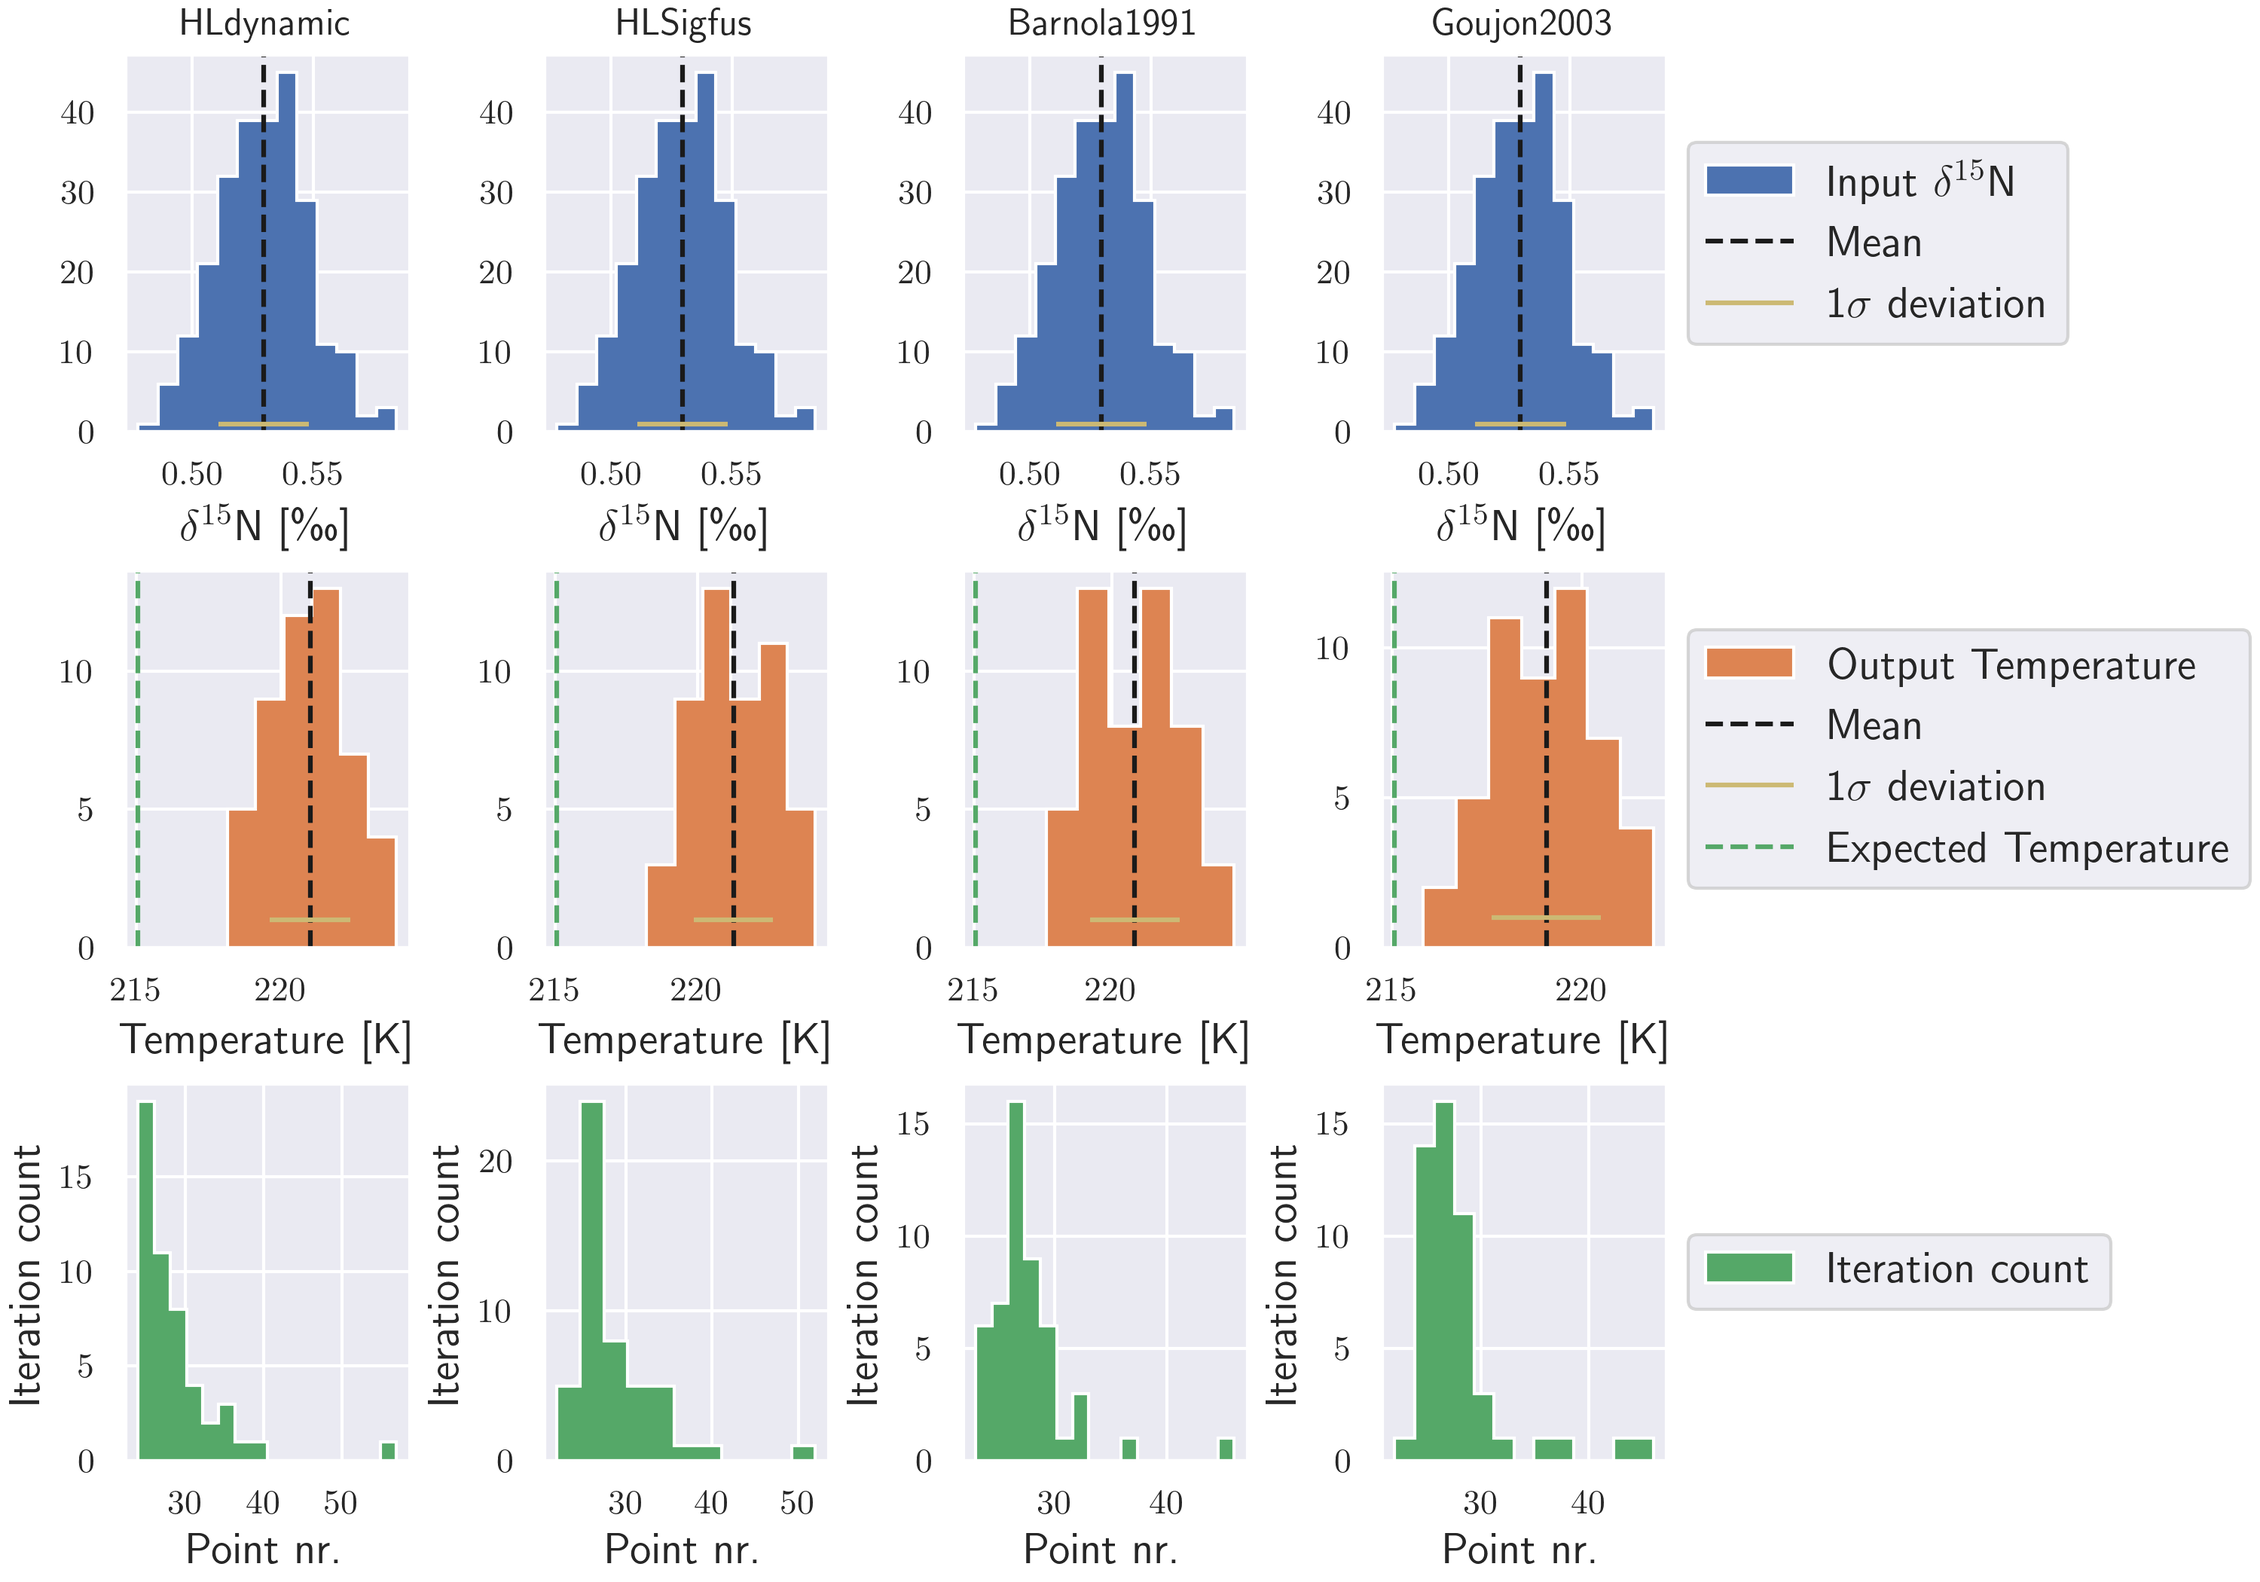
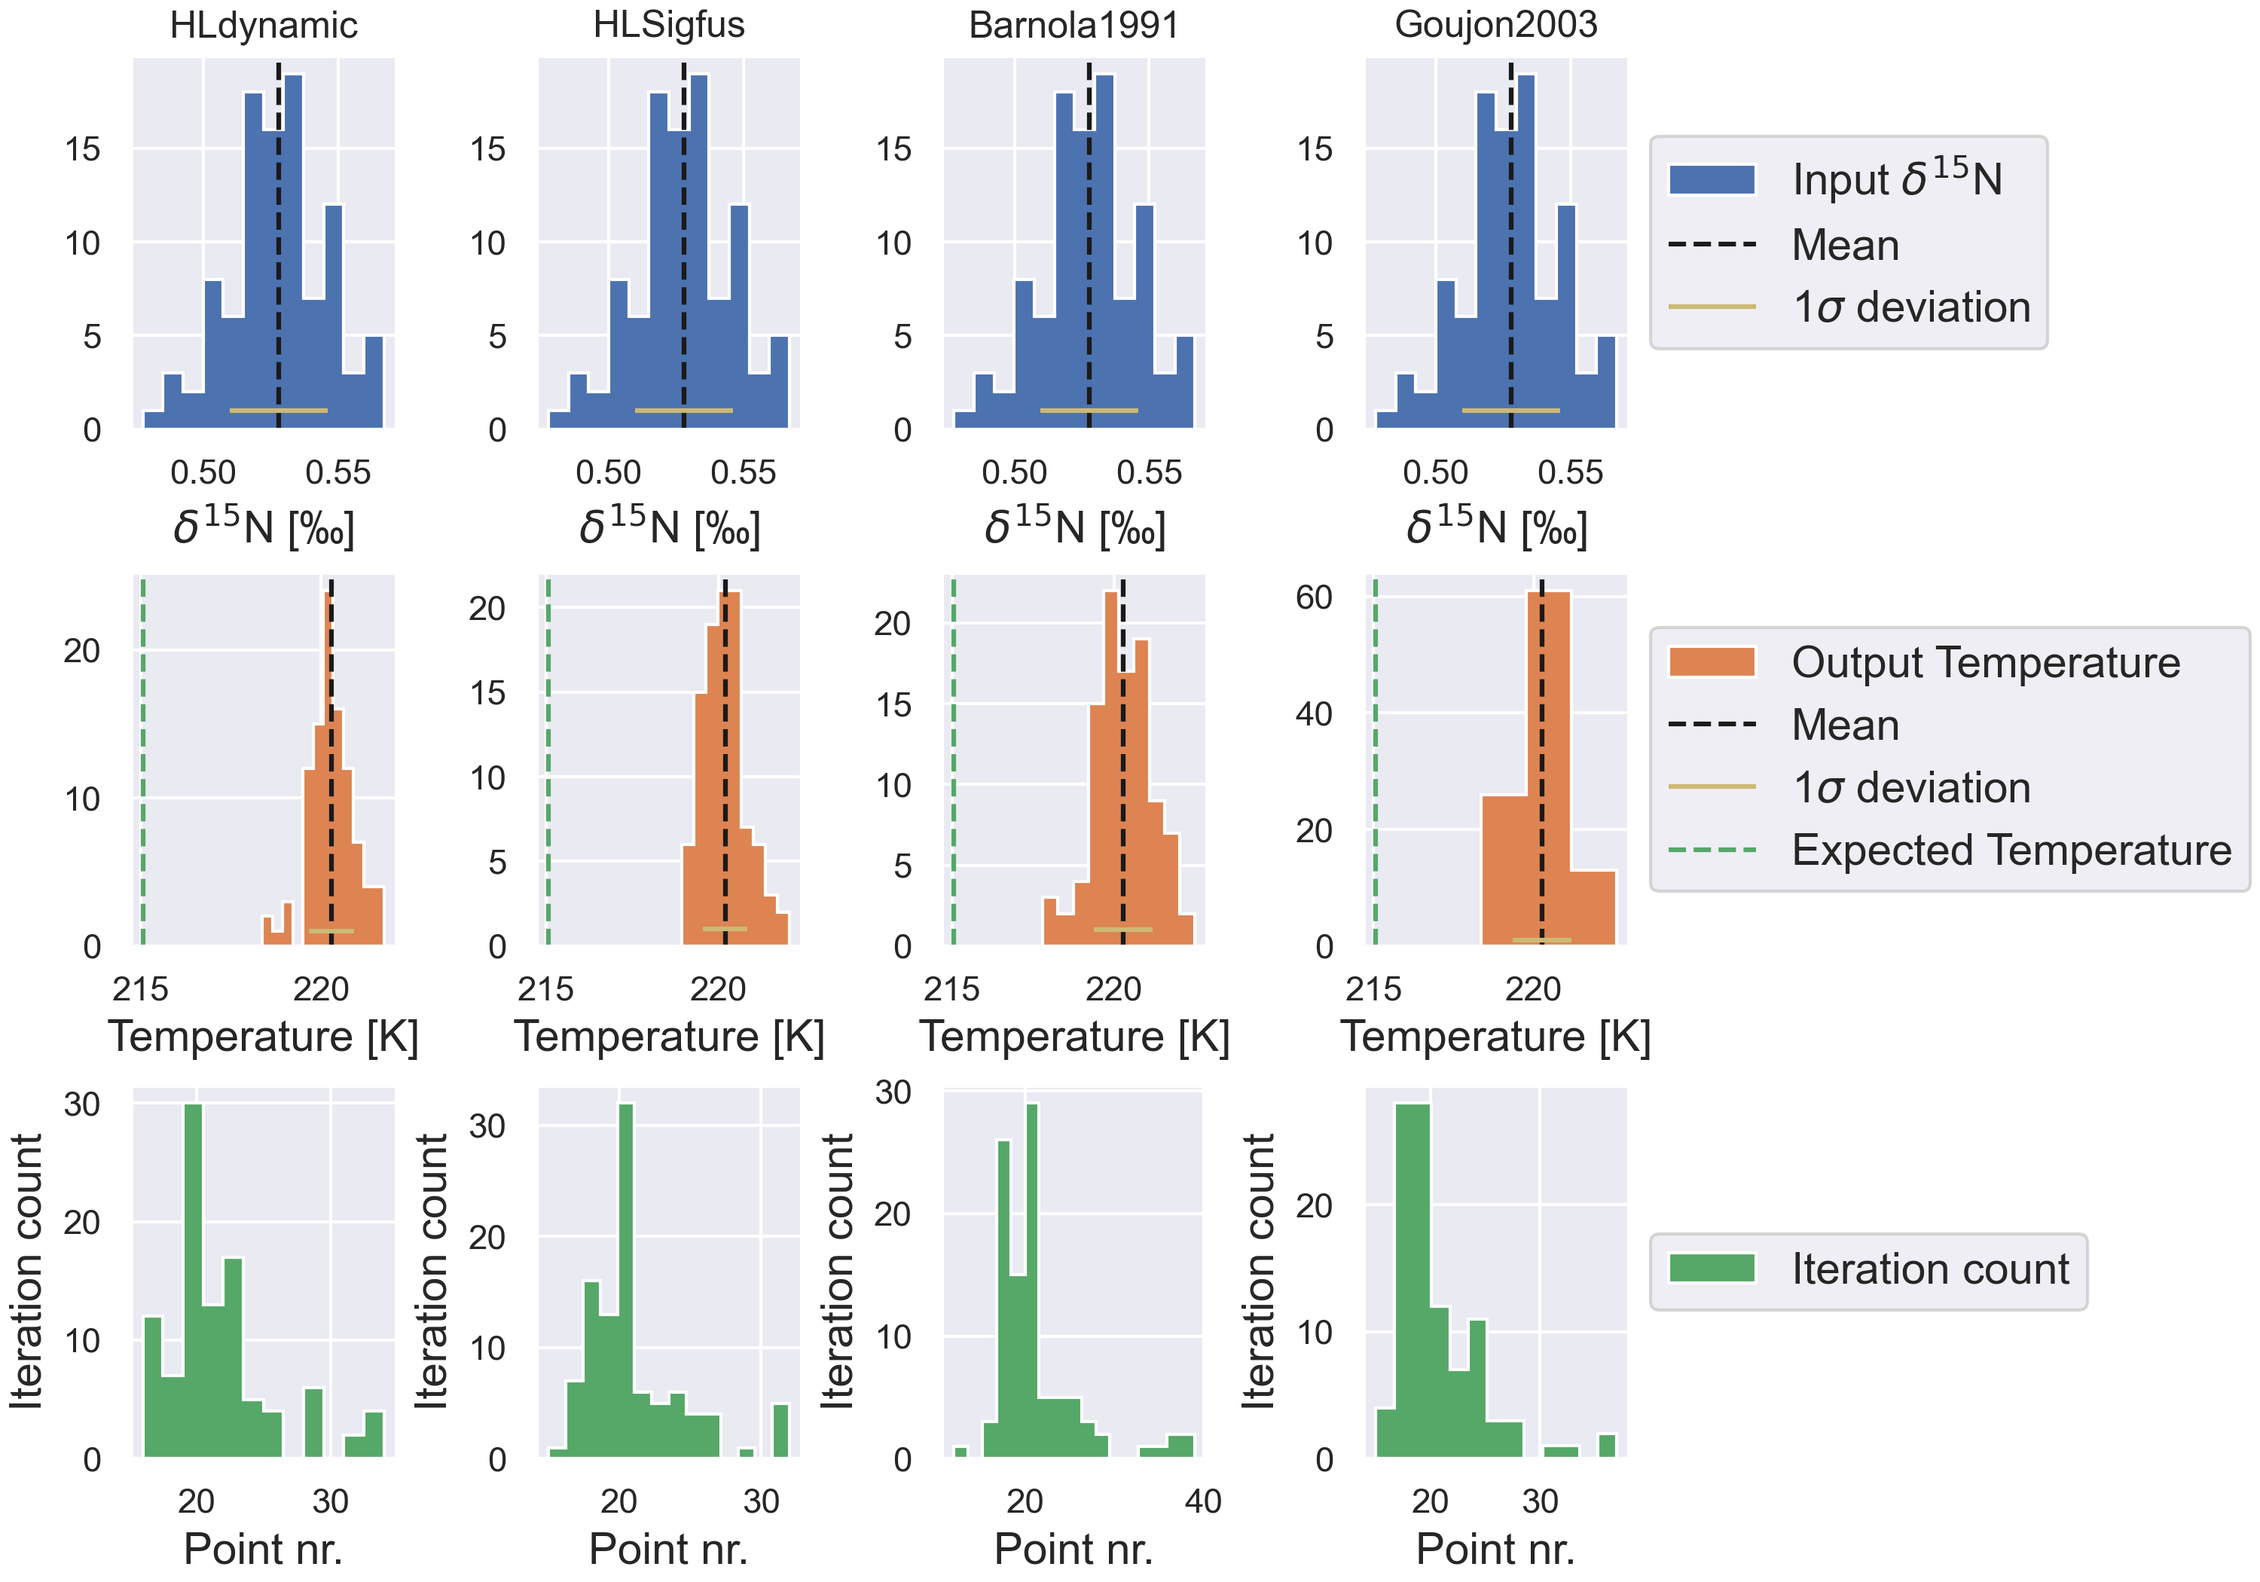
Testing

diff --git a/Python/Equi_compare2.py b/Python/Equi_compare2.py
@@ -26,7 +26,7 @@ sns.set()
 from scipy.signal import savgol_filter
 from scipy.ndimage.filters import uniform_filter1d
 cmap = plt.cm.get_cmap('viridis')
-cmap_intervals = np.linspace(0, 1, 5)
+cmap_intervals = np.linspace(0, 1, 28)
 from pathlib import Path
 import math
 
@@ -79,7 +79,117 @@ class CoD_plotter():
 
         self.Rates = np.array([float(x[:-1]) for x in rate])
         print(self.Rates)
+        
+        
+        fig, ax = plt.subplots(3, sharex=True, sharey=False,constrained_layout=True)
+        label = rate
+        #fig.set_figheight(15)
+        #fig.set_figwidth(8)
+
+        #Rates = np.array([int(x[:-1]) for x in rate])
+        #print(Rates)
+        alpha = [1, 0.6, 0.3]
+        alphas = [1,0.75,0.5,0.25]
+        ax[1].invert_yaxis()
+        ax[2].invert_yaxis()
+        for k in range(len(self.filepath)):
+
+            self.fpath = self.filepath[k]
+            try:
+                f = h5.File(self.fpath)
+            except Exception as e: print(e)
+
+            #f = h5.File(self.fpath)
+            #self.fpath.mkdir(parents=True, exist_ok=True)
             
+            self.z = f['depth'][:]
+            self.climate = f["Modelclimate"][:]
+            self.model_time = np.array(([a[0] for a in self.z[:]]))
+            self.close_off_depth = f["BCO"][:, 2]
+            
+            #### COD variables
+            self.temperature = f['temperature'][:]
+            self.temp_cod = np.ones_like(self.close_off_depth)
+
+            for i in range(self.z.shape[0]):
+                idx = int(np.where(self.z[i, 1:] == self.close_off_depth[i])[0])
+                self.temp_cod[i] = self.temperature[i,idx]
+                
+                
+                
+            self.delta_temp = self.climate[:,2] - self.temp_cod
+            #print(self.temp_cod.shape,self.climate[:,2].shape,self.delta_temp.shape)
+            if self.KtC:
+                self.climate[:,2] - 273.15
+
+        
+            #print(label,rate)
+            #print(len(self.filepath))        
+            
+            ax[0].plot(self.model_time, self.climate[:,2],color=cmap(cmap_intervals[k]))
+            ax[0].grid(linestyle='--', color='gray', lw='0.5')
+            ax[0].set_ylabel(r'\centering Temperature \newline\centering Forcing [K]')
+            #ax[0].set_yticks(np.arange(230,260, step=10))
+            #ax[0].set_xlabel(r"Model Time [y]", labelpad=-1.5, fontsize=9)
+            '''
+            ax[1].plot(self.model_time, self.climate[:,1],color=cmap(cmap_intervals[k]))
+            ax[1].grid(linestyle='--', color='gray', lw='0.5')
+            ax[1].set_ylabel(r'\centering Acc. Forcing \newline\centering [$\mathrm{my}^{-1}$ ice eq.]')
+            #ax[1].set_yticks(np.arange(0.05,0.6,step=0.2))
+            ax[1].set_xlabel(r"Model Time [y]", labelpad=-1.5, fontsize=9)
+            '''
+            ax[1].plot(self.model_time, self.close_off_depth, color=cmap(cmap_intervals[k]), label=label[k])
+            ax[1].grid(linestyle='--', color='gray', lw='0.5')
+            ax[1].set_ylabel(r'\centering Close-off \newline\centering depth [m]')
+            #ax[2].set_yticks(np.arange(30,120,step=30))
+            
+            #get_HalfTime(self.close_off_depth)
+            #print()
+            slices = int((500+float(Rates[k][:-1]))/2)
+            #Time_Const = self.model_time[find_first_constant(self.close_off_depth[510:], tolerance=1e-6)+510]
+            Time_Const = self.model_time[get_HalfTime(self.close_off_depth[slices:],mode='Endpoint')+slices]
+            #print(Time_Const)
+            ax[1].axvline(x=Time_Const,color=cmap(cmap_intervals[k]),alpha=0.5)#,label=label[k]+'_'+str(Time_Const-1500-Rates[k]))
+            #ax[2].legend(loc='lower right', fontsize=8)
+            #ax[1].set_xlabel(r"Model Time [y]", labelpad=-1.5, fontsize=9)
+            #ax[1].legend(loc='lower right', fontsize=8)
+            #print(self.model_time[1000:])
+            #box = ax[1].get_position()
+                        #ax[i,j].set_position([box.x0, box.y0, box.width * 0.8, box.height])
+
+            # Put a legend to the right of the current axis
+            #ax[1].legend(ncol=1,fontsize=12,loc='center left', bbox_to_anchor=(1, 0.5))
+
+
+    
+            #Times = np.array([0,Rates[k]+500,find_constant_row(self.temperature)])
+            #print(Times)
+            #if Exs == 'Acc/':
+            #    continue
+            #else:
+            Time_Const = self.model_time[get_HalfTime(self.delta_temp[slices:],mode='Endpoint')+slices]
+            ax[2].plot(self.model_time,self.delta_temp, color=cmap(cmap_intervals[k]))#, label=label[k])
+            ax[2].axvline(x=Time_Const,color=cmap(cmap_intervals[k]),alpha=0.5)#,label=label[k]+'_'+str(Time_Const-1500-Rates[k]))
+            ax[2].grid(linestyle='--', color='gray', lw='0.5')
+            #ax[3].legend(loc='lower right', fontsize=8)
+
+            ax[2].set_ylabel(r"\centering Temperature \newline \centering gradient [K]", labelpad=-1.5, fontsize=9)
+            #ax[2].legend(loc='lower right', fontsize=8)
+            ax[2].set_xlabel(r"Model Time [y]", labelpad=-1.5, fontsize=9)
+
+             
+                
+             
+               
+            #plt.xlabel(r"Model Time [y]", labelpad=-1.5, fontsize=9)
+
+        f.close()
+            
+        
+            
+        
+        
+        
         return
     
     def Equi_output(self):
@@ -89,7 +199,9 @@ class CoD_plotter():
         for k in range(len(self.filepath)):
             
             self.fpath = self.filepath[k]
-            f = h5.File(self.fpath)
+            try:
+                f = h5.File(self.fpath)
+            except Exception as e: print(e)
             #self.fpath.mkdir(parents=True, exist_ok=True)
             
             self.z = f['depth'][:]
@@ -112,15 +224,15 @@ class CoD_plotter():
             
             
             
-            
-            
-            slices = 500+int(self.Rates[k])
+            #print(self.Rates,Rates)
+            #print(self.Rates[k][:-1])
+            slices = int(500+float(self.Rates[k])/2)
 
             Time_Const_CoD = self.model_time[get_HalfTime(self.close_off_depth[slices:],mode='Endpoint')+slices]
             Time_Const_temp = self.model_time[get_HalfTime(self.delta_temp[slices:],mode='Endpoint')+slices]
-            Output[j*25+k,odd[i]] = Time_Const_CoD - 1500 - int(self.Rates[k])    
-            Output[j*25+k,even[i]] = Time_Const_temp - 1500 - int(self.Rates[k])
-        return Output[j*25+0:j*25+25,even[i]:odd[i]+1]
+            Output[j*28+k,odd[i]] = Time_Const_CoD - 1500 - int(self.Rates[k])    
+            Output[j*28+k,even[i]] = Time_Const_temp - 1500 - int(self.Rates[k])
+        return Output[j*28+0:j*28+28,even[i]:odd[i]+1]
 rfolder = 'CFM/CFM_main/CFMoutput/Equi2/'
 x = ['Temp','Acc','Both']
 
@@ -146,20 +258,21 @@ def folder_gen(Fold,Exp,FileFlag):
     if FileFlag == True:
         X = [x[:-1] for x in X]
         X2 = [x[:-1] for x in X2]
-        Y = [x[:-1] for x in Y]
-
+        Y = [x[:-4] + 'y' for x in Y]
+        print(Y)
         #X2 = [s + '_' for s in X2]
         X = [s + '_' for s in X]
         Folder = [(i+i2+j) for i in X for i2 in X2 for j in Y]
     else:
         #X2 = [x[:-1] for x in X2]
-        
+        Y = [x[:-4] + 'y/' for x in Y]
+        print(Y)
         Folder = [(i+i2+j) for i in X for i2 in X2 for j in Y]
     
     return Folder
-S = 75
-Output = np.zeros((75,6))    
-Matrix = np.zeros((75,6))
+S = 28*3
+Output = np.zeros((S,6))    
+Matrix = np.zeros((S,6))
 even = np.arange(0,5,2)
 odd = np.arange(1,6,2)    
 Exp = ['Temp/','Acc/','Both/']
@@ -177,8 +290,8 @@ for j in range(len(Exp)):
         print(Exp[j],Models[i])
         #print(path)
         Current_plot = CoD_plotter(j,i,filepath = path,rate = Rates,Exs = Exp[j])
-        Matrix[j*25+0:j*25+25,even[i]:odd[i]+1] = Current_plot.Equi_output()
-        Matrix[25:50,0:5:2] = 0
+        Matrix[j*28+0:j*28+28,even[i]:odd[i]+1] = Current_plot.Equi_output()
+        Matrix[28:28*2,0:5:2] = 0
 
 
     #            

diff --git a/Python/Optimization/Dist_plot.py b/Python/Optimization/Dist_plot.py
@@ -6,7 +6,7 @@ Created on Tue Feb 21 15:25:28 2023
 """
 
 from matplotlib import pyplot as plt
-
+from Kindler_fit_ODR import input_file, expfunc
 import numpy as np
 import pandas as pd
 import glob
@@ -45,25 +45,32 @@ a.encode('utf-8')
 
 even = np.arange(0,7,2)
 odd = np.arange(1,8,2)  
+Input_temp,Input_acc,Beta = input_file(num=25)
 
-
+dfc = pd.read_csv('resultsFolder/out_model.csv',sep=',')
+Modela = ['HLD','HLS','BAR','GOU']
 
 
 mus = np.zeros((4,8))
 mus_1 = np.zeros((4,8))
 # Loop over H5 files and load into a dataframe
 for i in range(len(Dist)):
+    j2 = Dists2[i]
     
-    
-    s = np.random.normal(Point_N[i],0.02,size=2000)
-    Data_d15N = s[(abs(s - s.mean())) < (3 * s.std())][:S]
 
     fig, ax = plt.subplots(nrows=3,ncols=4,figsize=(10, 7), constrained_layout=True)
     for j in range(len(Models)):
-        print('resultsFolder/Version1/' + str(Models[j]) + '/' + str(Dists2[i]) + '/*.h5')
+        j1 = Dists2[j]
+        Csv_point = dfc[str(Modela[j])]
+        s = np.random.normal(Csv_point[j1],0.02,size=2000)
+        Data_d15N = s[(abs(s - s.mean())) < (3 * s.std())][:S]
+
+        print(j2)
         #for z,file in enumerate(glob.iglob('resultsFolder/Version1/' + str(Models[j]) + '/' + str(Dist[i]) + '/*.h5')):  
         for z in range(100):
             file = 'resultsFolder/Test/Version5/' + str(Models[j]) + '/Dist' + str(Dists2[i]) + '/Point' + str(z) + '.h5'
+            #print(file)
+            
             with h5py.File(file, 'r') as h5fr:
                 #print(h5fr.keys())
                 #print(2)
@@ -71,7 +78,7 @@ for i in range(len(Dist)):
                 d15N[z] = h5fr['d15N@CoD'][-1]
                 count[z] = h5fr['count'][-1]
                 Temp[z] = h5fr['temp'][-1]
-       
+                #print(np.mean(Temp))
        
        
         #table = pd.DataFrame(xdata).reset_index()
@@ -84,13 +91,13 @@ for i in range(len(Dist)):
         
         mu = np.mean(Temp)
         std = np.std(Temp,ddof=1)
-        ax[1,j].axvline(mu,color='k',linestyle="--",label='Mean' if j ==3 else '')
+        ax[1,j].axvline(mu,color='g',linestyle="--",label='Mean' if j ==3 else '')
         ax[1,j].hlines(y=1,xmin=mu-std,xmax=mu+std,color='y',linestyle="-",label=r'1$\sigma$ deviation' if j ==3 else '')
-        ax[1,j].axvline(Point_T[i],color='g',linestyle="--",label='Expected Temperature' if j ==3 else '')
+        ax[1,j].axvline(Input_temp[j2],color='k',linestyle="--",label='Expected Temperature' if j ==3 else '')
         
         mus[i,even[j]] = '{0:.2f}'.format(mu) 
         mus[i,odd[j]] = '{0:.1f}'.format(std)
-        print(mu)
+        print(mu,Input_temp[j2])
         mua = np.mean(Data_d15N)
         stda = np.std(Data_d15N,ddof=1)
         ax[0,j].axvline(mua,color='k',linestyle="--",label='Mean' if j ==3 else '')
@@ -132,7 +139,7 @@ for i in range(len(Dist)):
                 #ax[1,3].legend(loc='upper right')
                 #ax[2,3].legend(loc='upper right')
     #fig.legend(ncol=3,loc='lower center')
-    plt.savefig('Plots/Dist'+str(i)+'.png',dpi=300)
+    plt.savefig('Plots5/Dist'+str(j2)+'.png',dpi=300)
         
 
 

diff --git a/Python/Optimization/Stuff.tex b/Python/Optimization/Stuff.tex
@@ -7,14 +7,14 @@
  &  & \multicolumn{2}{c}{HLD} & \multicolumn{2}{c}{HLS} & \multicolumn{2}{c}{Bar} & \multicolumn{2}{c}{GOU} \\
  &  & Mean & $\sigma$ & Mean & $\sigma$ & Mean & $\sigma$ & Mean & $\sigma$ \\
 \midrule
-\multirow[c]{4}{*}{Temp} & Dist1 & 221.01 & 1.4 & 221.27 & 1.4 & 220.84 & 1.6 & 219.05 & 1.4 \\
- & Dist2 & 216.61 & 1.2 & 216.65 & 1.2 & 216.6 & 1.4 & 214.73 & 1.1 \\
- & Dist3 & 236.22 & 2.7 & 236.16 & 2.4 & 235.63 & 2.0 & 218.01 & 55.7 \\
- & Dist4 & 247.62 & 4.8 & 248.57 & 5.0 & 247.5 & 3.9 & 218.03 & 73.5 \\
-\multirow[c]{4}{*}{Nitrogen} & Dist1 & 0.53 & 0.02 & 0.53 & 0.02 & 0.53 & 0.02 & 0.53 & 0.02 \\
- & Dist2 & 0.596 & 0.02 & 0.596 & 0.02 & 0.596 & 0.02 & 0.596 & 0.02 \\
- & Dist3 & 0.373 & 0.02 & 0.373 & 0.02 & 0.373 & 0.02 & 0.373 & 0.02 \\
- & Dist4 & 0.297 & 0.02 & 0.297 & 0.02 & 0.297 & 0.02 & 0.297 & 0.02 \\
+\multirow[c]{4}{*}{Temp} & Dist1 & 220.28 & 0.6 & 220.19 & 0.6 & 220.28 & 0.9 & 220.25 & 0.9 \\
+ & Dist2 & 225.8 & 0.8 & 225.86 & 0.8 & 225.81 & 1.2 & 225.6 & 1.0 \\
+ & Dist3 & 234.6 & 1.0 & 234.61 & 1.1 & 234.6 & 1.3 & 234.6 & 1.5 \\
+ & Dist4 & 241.26 & 1.3 & 241.22 & 1.2 & 241.2 & 1.6 & 163.12 & 115.1 \\
+\multirow[c]{4}{*}{Nitrogen} & Dist1 & 0.539 & 0.02 & 0.468 & 0.02 & 0.382 & 0.02 & 0.305 & 0.02 \\
+ & Dist2 & 0.541 & 0.02 & 0.47 & 0.02 & 0.387 & 0.02 & 0.303 & 0.02 \\
+ & Dist3 & 0.542 & 0.02 & 0.47 & 0.02 & 0.382 & 0.02 & 0.303 & 0.02 \\
+ & Dist4 & 0.541 & 0.02 & 0.476 & 0.02 & 0.385 & 0.02 & 0.301 & 0.02 \\
 \bottomrule
 \end{tabular}
 \end{table}
